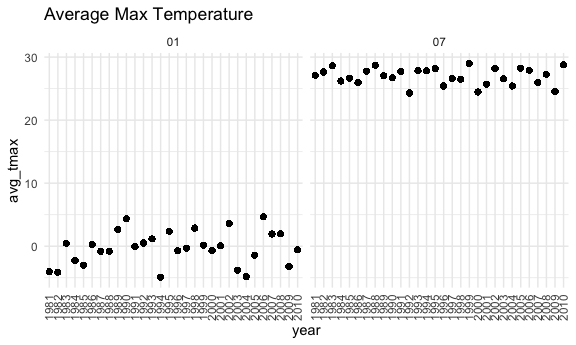
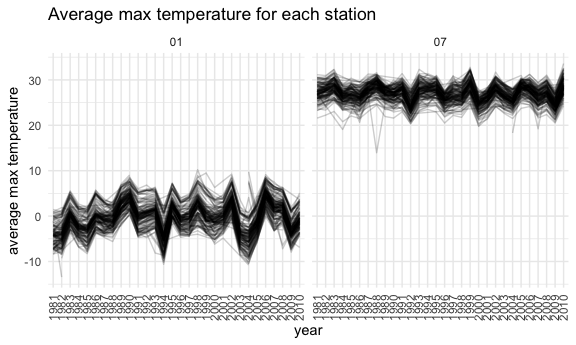
update hw

diff --git a/p8105_hw3_yw4005.md b/p8105_hw3_yw4005.md
@@ -1,7 +1,7 @@
 P8105 HW3
 ================
 Yijin Serena Wang
-2022-10-12
+2022-10-13
 
 ``` r
 library(tidyverse)
@@ -166,23 +166,47 @@ of data of an accelerometer worn by a patient.
 ``` r
 accel_data %>% 
   group_by(day_id) %>%
-  summarise(total_activity = sum(activity))
+  summarise(total_activity = sum(activity)) %>%
+  knitr::kable(digits = 1)
 ```
 
-    ## # A tibble: 35 × 2
-    ##    day_id total_activity
-    ##     <dbl>          <dbl>
-    ##  1      1        480543.
-    ##  2      2         78828.
-    ##  3      3        376254 
-    ##  4      4        631105 
-    ##  5      5        355924.
-    ##  6      6        307094.
-    ##  7      7        340115.
-    ##  8      8        568839 
-    ##  9      9        295431 
-    ## 10     10        607175 
-    ## # … with 25 more rows
+| day_id | total_activity |
+|-------:|---------------:|
+|      1 |       480542.6 |
+|      2 |        78828.1 |
+|      3 |       376254.0 |
+|      4 |       631105.0 |
+|      5 |       355923.6 |
+|      6 |       307094.2 |
+|      7 |       340115.0 |
+|      8 |       568839.0 |
+|      9 |       295431.0 |
+|     10 |       607175.0 |
+|     11 |       422018.0 |
+|     12 |       474048.0 |
+|     13 |       423245.0 |
+|     14 |       440962.0 |
+|     15 |       467420.0 |
+|     16 |       685910.0 |
+|     17 |       382928.0 |
+|     18 |       467052.0 |
+|     19 |       371230.0 |
+|     20 |       381507.0 |
+|     21 |       468869.0 |
+|     22 |       154049.0 |
+|     23 |       409450.0 |
+|     24 |         1440.0 |
+|     25 |       260617.0 |
+|     26 |       340291.0 |
+|     27 |       319568.0 |
+|     28 |       434460.0 |
+|     29 |       620860.0 |
+|     30 |       389080.0 |
+|     31 |         1440.0 |
+|     32 |       138421.0 |
+|     33 |       549658.0 |
+|     34 |       367824.0 |
+|     35 |       445366.0 |
 
 The trends are not apparent.
 
@@ -190,10 +214,19 @@ The trends are not apparent.
 ggplot(data = accel_data, 
        aes(x = minute, y = activity, color = day)) +
   geom_point(alpha = .5) +
-  theme(axis.text.x = element_text(angle = 90, vjust = 0.5, hjust=1))
+  theme(axis.text.x = element_text(angle = 90, vjust = 0.5, hjust=1)) +
+  labs(title = "24-hour activity time courses")
 ```
 
 <img src="p8105_hw3_yw4005_files/figure-gfm/unnamed-chunk-5-1.png" width="90%" />
+
+It seems for every day in a week, there is a specific period of time
+that has low activity. At other times of the day, there is a day-effect
+on the time that the participant did activity. There are dots that are
+on top of one another, forming a straight line. These dots are all in
+the same color, indicating the same day of the week. In general, the
+participant did more activity in the morning (assumingly) on Fridays and
+Saturdays, in later of the day (assumingly) on Thursdays and Tuesdays.
 
 # Problem 3
 
@@ -225,37 +258,46 @@ clean_ny_noaa <- ny_noaa %>%
 ``` r
 clean_ny_noaa %>%
   count(snow, name = "count") %>%
-  top_n(1, count)
+  top_n(1, count) %>%
+  knitr::kable(digits = 1)
 ```
 
-    ## # A tibble: 1 × 2
-    ##    snow   count
-    ##   <int>   <int>
-    ## 1     0 2008508
+| snow |   count |
+|-----:|--------:|
+|    0 | 2008508 |
 
 The most commonly observed value is 0. It might be because the actual
 data is documented in the `snwd` column.
 
 ``` r
 clean_ny_noaa  %>%
-  filter(month %in% c("07","01")) %>%
-  group_by(year, month) %>%
-  # calculate average of max temperatures for observations in each month, year
-  mutate(avg_tmax = mean(tmax, na.rm = TRUE)) %>%
+  filter(month %in% c("01","07"))  %>%
+  group_by(year, month, id) %>%
+  # calculate average of max temperatures for observations in each station in each month, year
+  summarize(avg_tmax = mean(tmax, na.rm = TRUE)) %>%
+  ungroup() %>%
   # make plot
-  ggplot(aes(x = year, y = avg_tmax)) +
-  geom_point(alpha = .5) +
+  ggplot(aes(x = year, y = avg_tmax, group = id)) +
+  geom_line(alpha = .2) +
   # create facets based on month
   facet_wrap(. ~ month) + 
-  theme(axis.text.x = element_text(angle = 90, vjust = 0.5, hjust=1)) +
-  labs(title = "Average Max Temperature")
+  theme(axis.text.x = element_text(angle = 90, vjust = 0.5, hjust=1),
+        legend.position = "none") +
+  labs(title = "Average max temperature for each station", y = "average max temperature" )
 ```
+
+    ## `summarise()` has grouped output by 'year', 'month'. You can override using the
+    ## `.groups` argument.
+
+    ## Warning: Removed 5640 row(s) containing missing values (geom_path).
 
 <img src="p8105_hw3_yw4005_files/figure-gfm/avg max temp plot-1.png" width="90%" />
 It seems like the average temperatures in July are all higher than those
 in January across these years. Average temperatures in July seem to have
-a lower variance than those in January. There is no significant
-outliers.
+a lower variance than those in January. Also, it seems that for both
+January and July, the average max temperatures has similar fluctuation
+around the same years. There is one significant outlier in approximately
+1988 July.
 
 ``` r
 tmax_tmin_p <- clean_ny_noaa %>%
